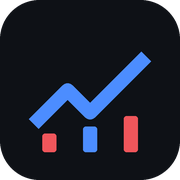
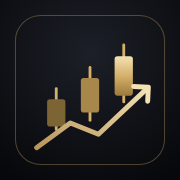
アイコンを金色のローソク足のデザインに新しくする・本物のサイトで決算後の見通しを確かめる見張り（health earnings）を追加
Claude-Session: https://claude.ai/code/session_01FSj7ZcwZT9boLcTxXpZSgJ

diff --git a/market-analyzer/public/index.html b/market-analyzer/public/index.html
@@ -12,7 +12,7 @@
   <title>相場分析ノート</title>
   <link rel="manifest" href="/manifest.webmanifest">
   <link rel="icon" href="/icon.svg" type="image/svg+xml">
-  <link rel="apple-touch-icon" href="/icon-180.png">
+  <link rel="apple-touch-icon" href="/icon-180.png?v=2">
   <link rel="stylesheet" href="/css/style.css">
   <link rel="preconnect" href="https://fonts.googleapis.com">
   <link rel="preconnect" href="https://fonts.gstatic.com" crossorigin>
